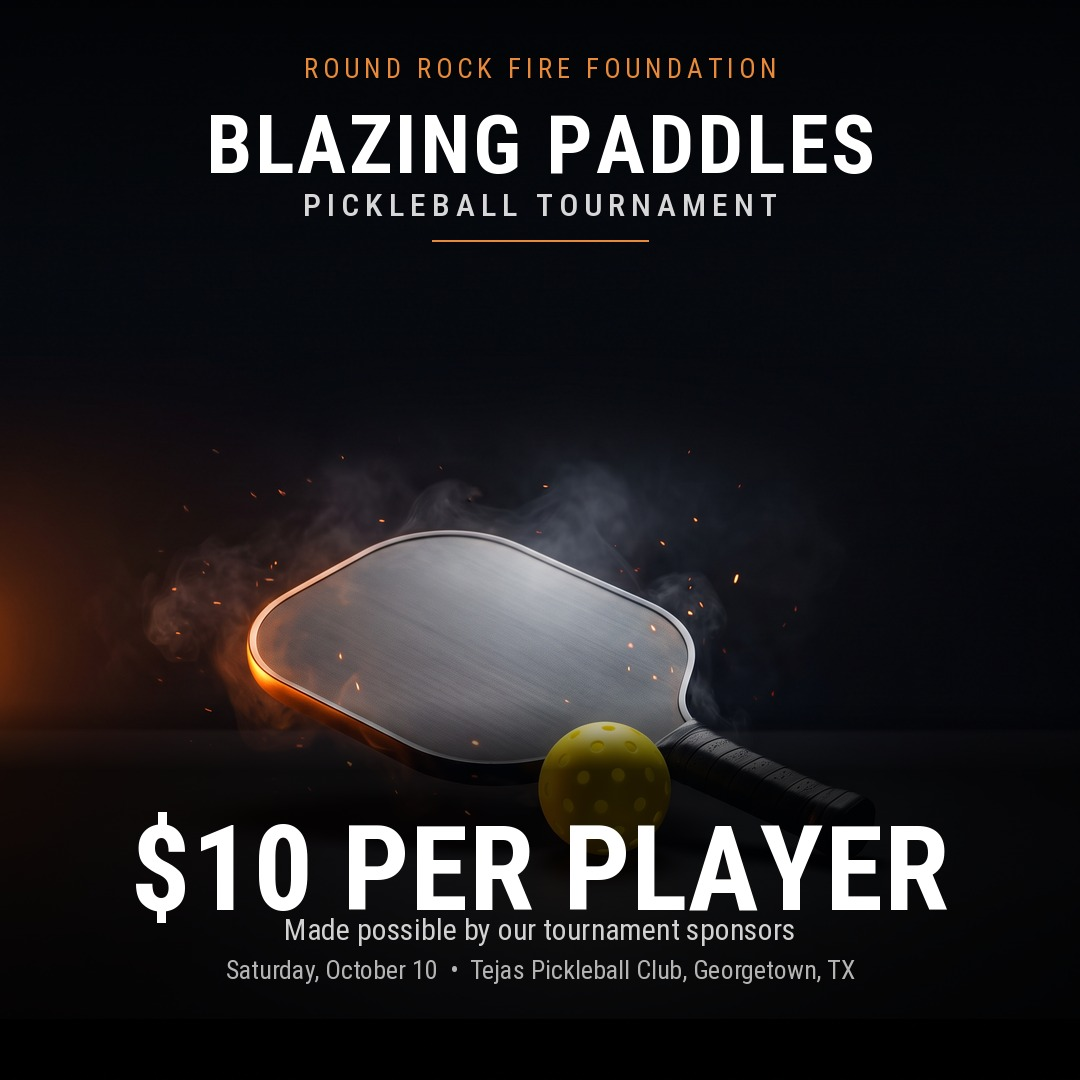
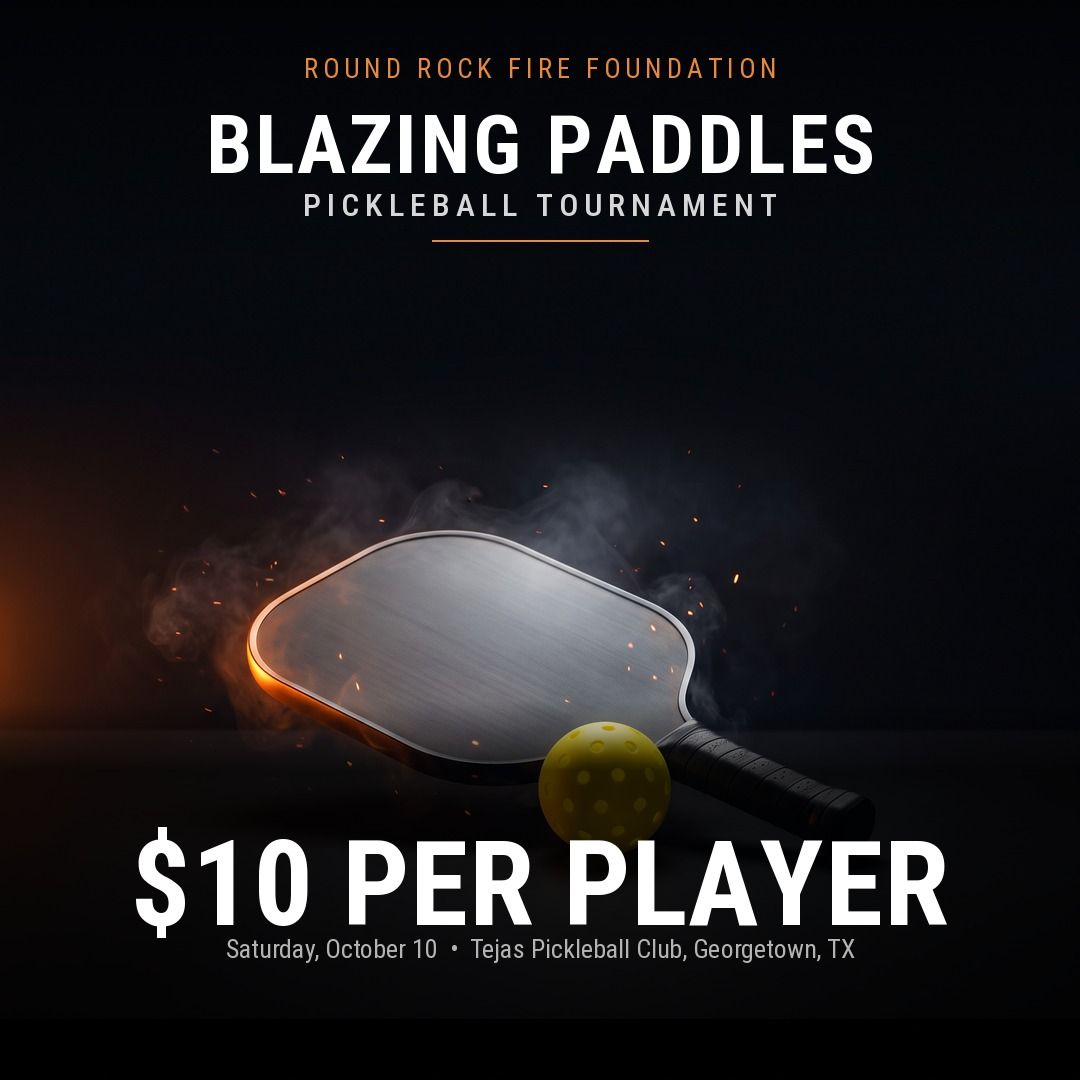
Add 8:00 AM start time throughout; add Register CTAs in event and divisions sections plus persistent floating CTA; keep header CTA visible on mobile; improve detail-text readability; remove sponsor line from hero photo

Changed region(s): [[0.1222, 0.7639, 0.8861, 0.9167]]

diff --git a/index.html b/index.html
@@ -4,12 +4,12 @@
   <meta charset="utf-8" />
   <meta name="viewport" content="width=device-width, initial-scale=1" />
   <title>Blazing Paddles Pickleball Tournament 2026 — Round Rock Fire Foundation</title>
-  <meta name="description" content="Join Blazing Paddles 2026 on Saturday, October 10, 2026 at Tejas Pickleball Club in Georgetown, TX. Register today — $10 per player for this Round Rock Fire Foundation pickleball tournament." />
+  <meta name="description" content="Join Blazing Paddles 2026 on Saturday, October 10, 2026 at 8:00 AM at Tejas Pickleball Club in Georgetown, TX. Register today — $10 per player for this Round Rock Fire Foundation pickleball tournament." />
 
   <!-- Open Graph -->
   <meta property="og:type" content="website" />
   <meta property="og:title" content="Blazing Paddles Pickleball Tournament 2026" />
-  <meta property="og:description" content="Saturday, October 10, 2026 · Tejas Pickleball Club, Georgetown, TX. Register today — $10 per player for the Round Rock Fire Foundation pickleball tournament." />
+  <meta property="og:description" content="Saturday, October 10, 2026 at 8:00 AM · Tejas Pickleball Club, Georgetown, TX. Register today — $10 per player for the Round Rock Fire Foundation pickleball tournament." />
   <meta property="og:url" content="https://pickleball.roundrockfirefoundation.org/" />
   <meta property="og:image" content="https://pickleball.roundrockfirefoundation.org/assets/images/blazing-paddles-logo-official-2026.jpg" />
   <meta property="og:image:alt" content="Blazing Paddles Pickleball Tournament 2026 logo" />
@@ -34,8 +34,9 @@
     "@type": "SportsEvent",
     "name": "Blazing Paddles Pickleball Tournament 2026",
     "description": "Round Rock Fire Foundation fundraiser with pickleball, community activities, and support for firefighter families.",
-    "startDate": "2026-10-10",
+    "startDate": "2026-10-10T08:00:00-05:00",
     "endDate": "2026-10-10",
+    "doorTime": "2026-10-10T08:00:00-05:00",
     "eventAttendanceMode": "https://schema.org/OfflineEventAttendanceMode",
     "eventStatus": "https://schema.org/EventScheduled",
     "image": "assets/images/blazing-paddles-logo-official-2026.jpg",
@@ -123,8 +124,8 @@
 
           <ul class="hero-meta">
             <li>
-              <span class="meta-label">Date</span>
-              <span class="meta-value">Saturday<br/>Oct 10, 2026</span>
+              <span class="meta-label">Date &amp; Time</span>
+              <span class="meta-value">Saturday<br/>Oct 10, 2026<br/>8:00 AM</span>
             </li>
             <li>
               <span class="meta-label">Venue</span>
@@ -146,10 +147,15 @@
         </div>
 
         <figure class="hero-art">
-          <img src="assets/images/blazing-paddles-hero-photo.jpg" alt="A pickleball paddle and ball glowing with embers, promoting Blazing Paddles registration now at $10 per player." width="1080" height="1080" />
+          <img src="assets/images/blazing-paddles-hero-photo.jpg" alt="A pickleball paddle and ball glowing with embers, promoting Blazing Paddles at $10 per player." width="1080" height="1080" />
         </figure>
       </div>
     </section>
+
+    <!-- FLOATING PERSISTENT REGISTER CTA -->
+    <a class="floating-register" id="floatingRegister" href="https://app.fluidpb.com/tournaments/blazing-paddles-pickleball-fundraiser-tournament-2" target="_blank" rel="noopener noreferrer" aria-label="Register now, $10 per player">
+      Register &mdash; $10
+    </a>
 
     <!-- MARQUEE / VALUE STRIP -->
     <section class="strip" aria-label="Event highlights">
@@ -180,6 +186,10 @@
           </p>
         </header>
 
+        <div class="cta-row cta-row-center cta-band">
+          <a class="btn btn-primary" href="https://app.fluidpb.com/tournaments/blazing-paddles-pickleball-fundraiser-tournament-2" target="_blank" rel="noopener noreferrer">Register Now &mdash; $10 per player</a>
+        </div>
+
         <div class="grid info-grid">
           <article class="card">
             <div class="card-icon" aria-hidden="true">🔥</div>
@@ -206,8 +216,8 @@
             <span class="fact-value">Saturday, October 10, 2026</span>
           </div>
           <div class="fact">
-              <span class="fact-label">Schedule</span>
-              <span class="fact-value">Times shared closer to event day</span>
+              <span class="fact-label">Start Time</span>
+              <span class="fact-value">8:00 AM</span>
           </div>
           <div class="fact">
             <span class="fact-label">Location</span>
@@ -219,7 +229,7 @@
           </div>
           <div class="fact">
               <span class="fact-label">Registration</span>
-              <span class="fact-value">$10 · Now open</span>
+              <span class="fact-value">$10 · Register today</span>
           </div>
           <div class="fact">
             <span class="fact-label">Beneficiary</span>
@@ -246,7 +256,7 @@
 
           <article class="div-card">
             <span class="div-tier">Registration</span>
-            <h3>Now open · $10 per player</h3>
+            <h3>Register today · $10 per player</h3>
             <p>Sign up at <a href="https://app.fluidpb.com/tournaments/blazing-paddles-pickleball-fundraiser-tournament-2" target="_blank" rel="noopener noreferrer">FluidPB</a> to lock in your spot for Saturday, October 10.</p>
             <div class="cta-row">
               <a class="btn btn-primary" href="https://app.fluidpb.com/tournaments/blazing-paddles-pickleball-fundraiser-tournament-2" target="_blank" rel="noopener noreferrer">Register Now</a>
@@ -267,8 +277,8 @@
 
           <article class="div-card">
             <span class="div-tier">Schedule</span>
-            <h3>Check-in windows shared before event</h3>
-            <p>Bracket start times and player check-in windows will be sent out a few weeks before tournament day.</p>
+            <h3>8:00 AM start</h3>
+            <p>Play begins at 8:00 AM. Bracket start times and player check-in windows will be sent out a few weeks before tournament day.</p>
           </article>
 
           <article class="div-card div-card-feature">
@@ -283,6 +293,10 @@
             <p>Player check-in windows and the public schedule will be sent to registered players in the weeks leading up to the tournament.</p>
           </article>
 
+        </div>
+
+        <div class="cta-row cta-row-center">
+          <a class="btn btn-primary" href="https://app.fluidpb.com/tournaments/blazing-paddles-pickleball-fundraiser-tournament-2" target="_blank" rel="noopener noreferrer">Register Now &mdash; $10 per player</a>
         </div>
 
         <p class="fine-print">Confirm final check-in times and bracket specifics with RRFF before tournament day.</p>
@@ -302,7 +316,7 @@
           <div class="location-info">
             <dl>
               <div><dt>Venue</dt><dd>Tejas Pickleball Club<br/>4701 FM 3405, Building 7<br/>Georgetown, TX 78633</dd></div>
-              <div><dt>Schedule</dt><dd>Check-in windows shared with registered players</dd></div>
+              <div><dt>Start Time</dt><dd>8:00 AM</dd></div>
               <div><dt>Activities</dt><dd>Food trucks, kids activities</dd></div>
               <div><dt>Parking</dt><dd>On-site</dd></div>
             </dl>
@@ -343,12 +357,12 @@
 
           <details class="faq-item" open>
             <summary>When and where is the tournament?</summary>
-            <p>Saturday, October 10, 2026, at Tejas Pickleball Club, 4701 FM 3405, Building 7, Georgetown, Texas 78633.</p>
+            <p>Saturday, October 10, 2026, starting at 8:00 AM, at Tejas Pickleball Club, 4701 FM 3405, Building 7, Georgetown, Texas 78633.</p>
           </details>
 
           <details class="faq-item">
             <summary>What time does play start?</summary>
-            <p>Player check-in windows, bracket start times, and the public schedule will be sent out a few weeks before the tournament so every team has the info they need going into the day.</p>
+            <p>Play starts at 8:00 AM. Individual bracket start times and player check-in windows will be sent out a few weeks before the tournament so every team has the info they need going into the day.</p>
           </details>
 
           <details class="faq-item">
@@ -357,7 +371,7 @@
           </details>
 
           <details class="faq-item">
-            <summary>Is registration open?</summary>
+            <summary>Can I still register?</summary>
             <p>Yes — register today. <a href="https://app.fluidpb.com/tournaments/blazing-paddles-pickleball-fundraiser-tournament-2" target="_blank" rel="noopener noreferrer">Sign up at FluidPB</a> to lock in your spot.</p>
           </details>
 

diff --git a/styles.css b/styles.css
@@ -361,11 +361,11 @@ button { font: inherit; cursor: pointer; background: none; border: 0; color: inh
   color: var(--text-faint);
 }
 .meta-value {
-  font-family: var(--font-display);
-  font-size: 1.15rem;
-  line-height: 1.1;
-  font-weight: 600;
-  text-transform: uppercase;
+  font-family: var(--font-body);
+  font-size: 1rem;
+  line-height: 1.45;
+  font-weight: 700;
+  letter-spacing: 0.005em;
   color: var(--text);
 }
 .hero-ctas {
@@ -536,11 +536,11 @@ button { font: inherit; cursor: pointer; background: none; border: 0; color: inh
   color: var(--text-faint);
 }
 .fact-value {
-  font-family: var(--font-display);
-  text-transform: uppercase;
-  font-size: 1.25rem;
-  letter-spacing: 0.01em;
-  line-height: 1.15;
+  font-family: var(--font-body);
+  font-size: 1.0625rem;
+  font-weight: 700;
+  letter-spacing: 0.005em;
+  line-height: 1.45;
   color: var(--text);
 }
 .fact-value a { color: var(--primary); }
@@ -1000,11 +1000,11 @@ button { font: inherit; cursor: pointer; background: none; border: 0; color: inh
 }
 .location-info dd {
   margin: 0;
-  font-family: var(--font-display);
-  text-transform: uppercase;
-  font-size: 1.15rem;
-  line-height: 1.2;
-  letter-spacing: 0.01em;
+  font-family: var(--font-body);
+  font-size: 1rem;
+  font-weight: 700;
+  line-height: 1.45;
+  letter-spacing: 0.005em;
 }
 .location-map {
   border-radius: var(--r-lg);
@@ -1104,7 +1104,15 @@ button { font: inherit; cursor: pointer; background: none; border: 0; color: inh
 }
 
 @media (max-width: 760px) {
-  .header-cta { display: none; }
+  /* Keep the Register CTA visible on phones — just make it compact */
+  .header-cta {
+    display: inline-flex;
+    padding: 8px 12px;
+    font-size: 0.6875rem;
+    letter-spacing: 0.02em;
+    white-space: nowrap;
+    flex: none;
+  }
   .menu-toggle { display: inline-flex; }
   .primary-nav {
     position: absolute;
@@ -1136,6 +1144,13 @@ button { font: inherit; cursor: pointer; background: none; border: 0; color: inh
   .footer-meta { text-align: left; }
   .hero-meta { grid-template-columns: 1fr 1fr; }
   .brand-line-2 { display: none; }
+  /* Keep the brand on one line now that the header CTA stays visible */
+  .brand-line-1 { font-size: 0.95rem; white-space: nowrap; }
+  .brand { gap: 7px; flex: none; }
+  .brand-mark-img { width: 28px; height: 28px; }
+  .header-inner { gap: 8px; height: 64px; }
+  .menu-toggle { flex: none; margin-left: 0; }
+  .primary-nav { top: 64px; }
   .hero-title { font-size: clamp(3rem, 14vw, 5rem); }
 }
 
@@ -1146,3 +1161,71 @@ button { font: inherit; cursor: pointer; background: none; border: 0; color: inh
   }
   html { scroll-behavior: auto; }
 }
+
+/* Centered inline CTA rows */
+.cta-row-center {
+  justify-content: center;
+  margin: var(--space-7) 0 var(--space-2);
+}
+.cta-band {
+  margin: var(--space-6) 0 var(--space-8);
+  padding: var(--space-5) var(--space-4);
+  border-top: 1px solid var(--border);
+  border-bottom: 1px solid var(--border);
+  background: color-mix(in oklab, var(--primary) 5%, transparent);
+  border-radius: var(--r-md);
+}
+
+/* Persistent floating register CTA */
+.floating-register {
+  position: fixed;
+  right: clamp(14px, 3vw, 28px);
+  bottom: clamp(14px, 3vh, 28px);
+  z-index: 60;
+  display: inline-flex;
+  align-items: center;
+  gap: 8px;
+  padding: 14px 22px;
+  border-radius: 999px;
+  font-family: var(--font-body);
+  font-weight: 800;
+  font-size: 0.9375rem;
+  letter-spacing: 0.01em;
+  white-space: nowrap;
+  color: #1a0d04;
+  background: linear-gradient(180deg, #ff9a3c, var(--primary));
+  border: 1px solid color-mix(in oklab, #fff 22%, var(--primary));
+  box-shadow: 0 10px 30px rgba(0,0,0,.45), 0 0 0 4px color-mix(in oklab, var(--primary) 18%, transparent);
+  text-decoration: none;
+  opacity: 0;
+  visibility: hidden;
+  transform: translateY(12px);
+  transition: opacity .28s ease, transform .28s ease, visibility .28s ease;
+}
+.floating-register.is-visible {
+  opacity: 1;
+  visibility: visible;
+  transform: translateY(0);
+}
+.floating-register:hover {
+  filter: brightness(1.06);
+  transform: translateY(-2px);
+}
+.floating-register:focus-visible {
+  outline: 3px solid #fff;
+  outline-offset: 3px;
+}
+@media (max-width: 560px) {
+  .floating-register {
+    left: 50%;
+    right: auto;
+    transform: translateX(-50%) translateY(12px);
+    padding: 13px 20px;
+  }
+  .floating-register.is-visible { transform: translateX(-50%) translateY(0); }
+  .floating-register:hover { transform: translateX(-50%) translateY(-2px); }
+}
+@media (prefers-reduced-motion: reduce) {
+  .floating-register { transition: opacity .01s linear; }
+}
+@media print { .floating-register { display: none; } }

diff --git a/script.js b/script.js
@@ -45,3 +45,28 @@
     });
   }
 })();
+
+/* Persistent floating Register CTA — visible once past the hero button */
+(function () {
+  var pill = document.getElementById('floatingRegister');
+  if (!pill) return;
+  var hero = document.querySelector('.hero-ctas');
+  var footer = document.querySelector('.site-footer') || document.querySelector('footer');
+
+  function update() {
+    // Show early so short (phone) viewports are never left without a CTA
+    var heroPast = hero ? (hero.getBoundingClientRect().bottom < 0) : false;
+    var past = heroPast || window.scrollY > 260;
+    // Hide when the footer's own Register button is already on screen
+    var footerVisible = false;
+    if (footer) {
+      var fr = footer.getBoundingClientRect();
+      footerVisible = fr.top < window.innerHeight - 80;
+    }
+    pill.classList.toggle('is-visible', past && !footerVisible);
+  }
+
+  update();
+  window.addEventListener('scroll', update, { passive: true });
+  window.addEventListener('resize', update, { passive: true });
+})();
